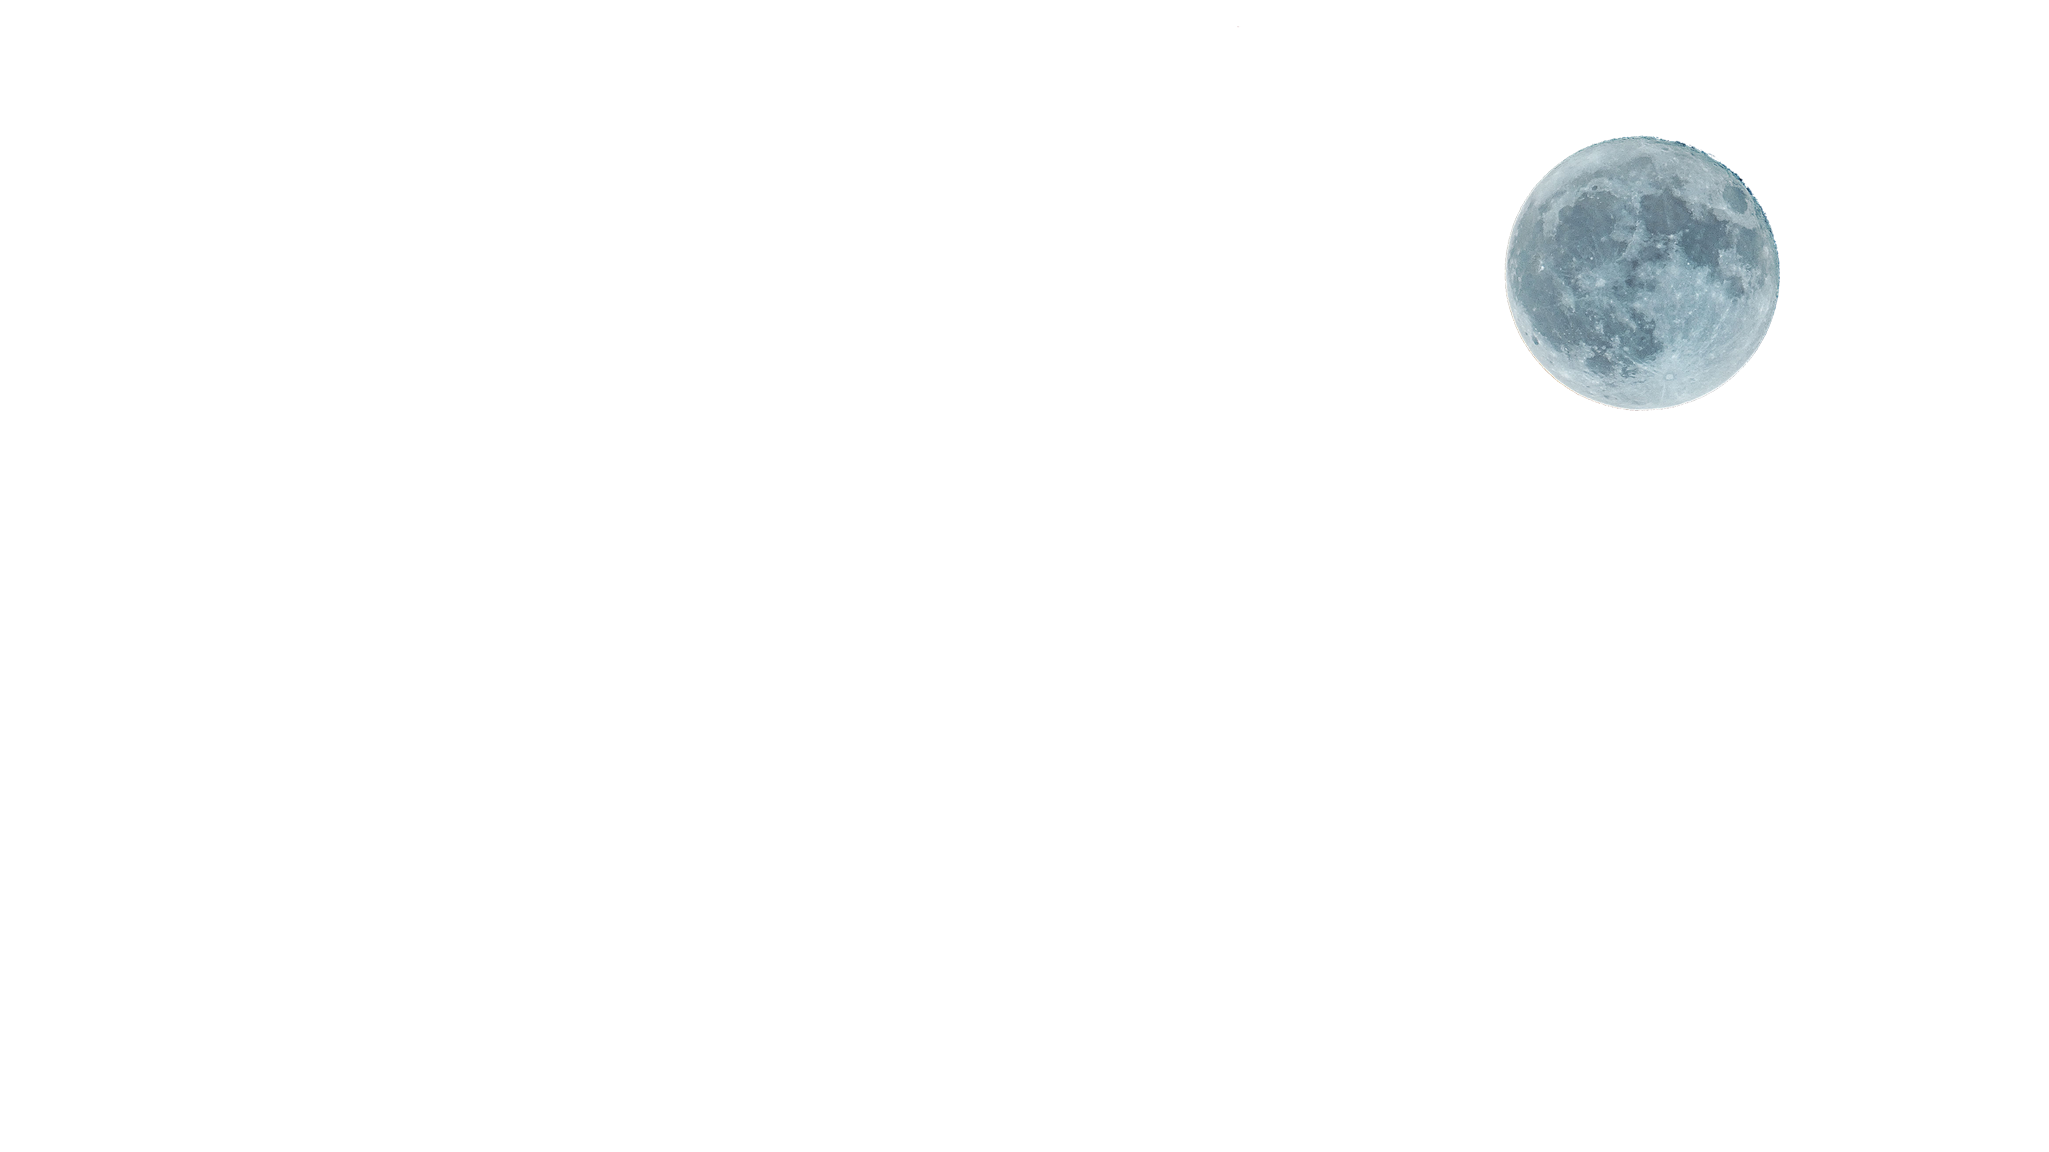
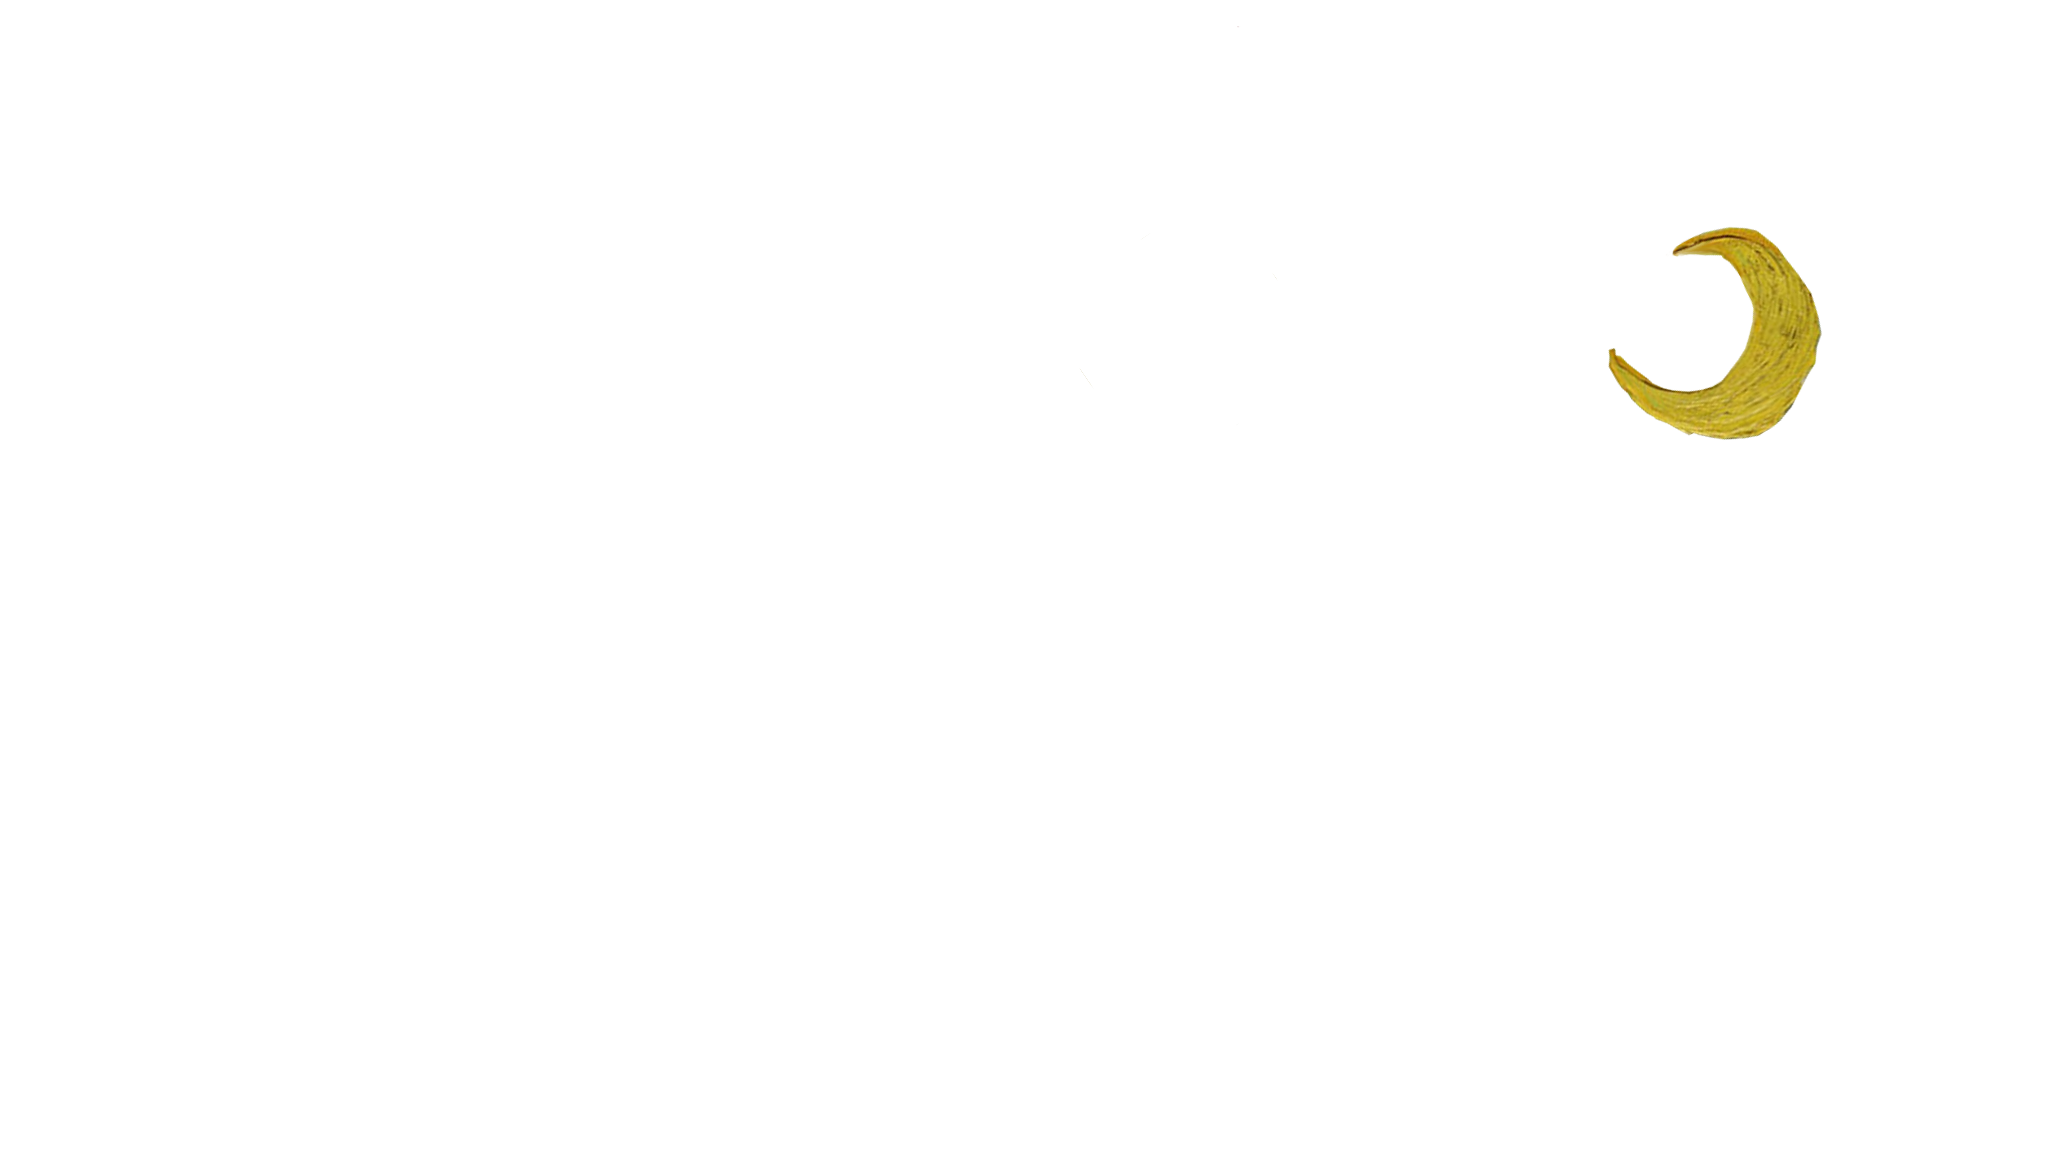
Parrallax zu Van Goth geändert mit allen Anpassungen

Changed region(s): [[0.7184, 0.0938, 0.9058, 0.375]]

diff --git a/WebApp/src/js/components/Parallax/ParallaxComponent.js b/WebApp/src/js/components/Parallax/ParallaxComponent.js
@@ -4,7 +4,7 @@ import React from "react";
 import Bg from "../../../images/art/parallaxassets/bg.jpg";
 import Moon from "../../../images/art/parallaxassets/moon.png";
 import Mountain from "../../../images/art/parallaxassets/mountain.png";
-import Road from "../../../images/art/parallaxassets/road.png";
+import Town from "../../../images/art/parallaxassets/town.png";
 
 export default class ParallaxComponent extends React.Component {
 
@@ -25,15 +25,15 @@ export default class ParallaxComponent extends React.Component {
     let bg = document.getElementById('bg');
     let moon = document.getElementById("moon");
     let mountain = document.getElementById("mountain");
-    let road = document.getElementById("road");
+    let town = document.getElementById("town");
     let text = document.getElementById("text");
 
     var value = window.scrollY;
   
     bg.style.top = value * 0.5 + 'px';
     moon.style.left = -value * 0.5 + 'px';
-    mountain.style.top = -value * 0.15 + 'px';
-    road.style.top = value * 0.15 + 'px';
+    mountain.style.top = -value * 0.02 + 'px';
+    town.style.top = value * 0.15 + 'px';
     text.style.top = value * 1 + 'px';
   }
 
@@ -44,7 +44,7 @@ export default class ParallaxComponent extends React.Component {
         <img src={Bg} id="bg" className="art-img"/>
         <img src={Moon} id="moon" className="art-img"/>
         <img src={Mountain} id="mountain" className="art-img"/>
-        <img src={Road} id="road" className="art-img"/>
+        <img src={Town} id="town" className="art-img"/>
         <h1 id="text" className="bigHeader">Kunst</h1>
       </section>
     );

diff --git a/WebApp/src/stylesheets/_art.css b/WebApp/src/stylesheets/_art.css
@@ -48,6 +48,6 @@
   z-index: 1;
 }
 
-#road {
+#town {
   z-index: 2;
 }
